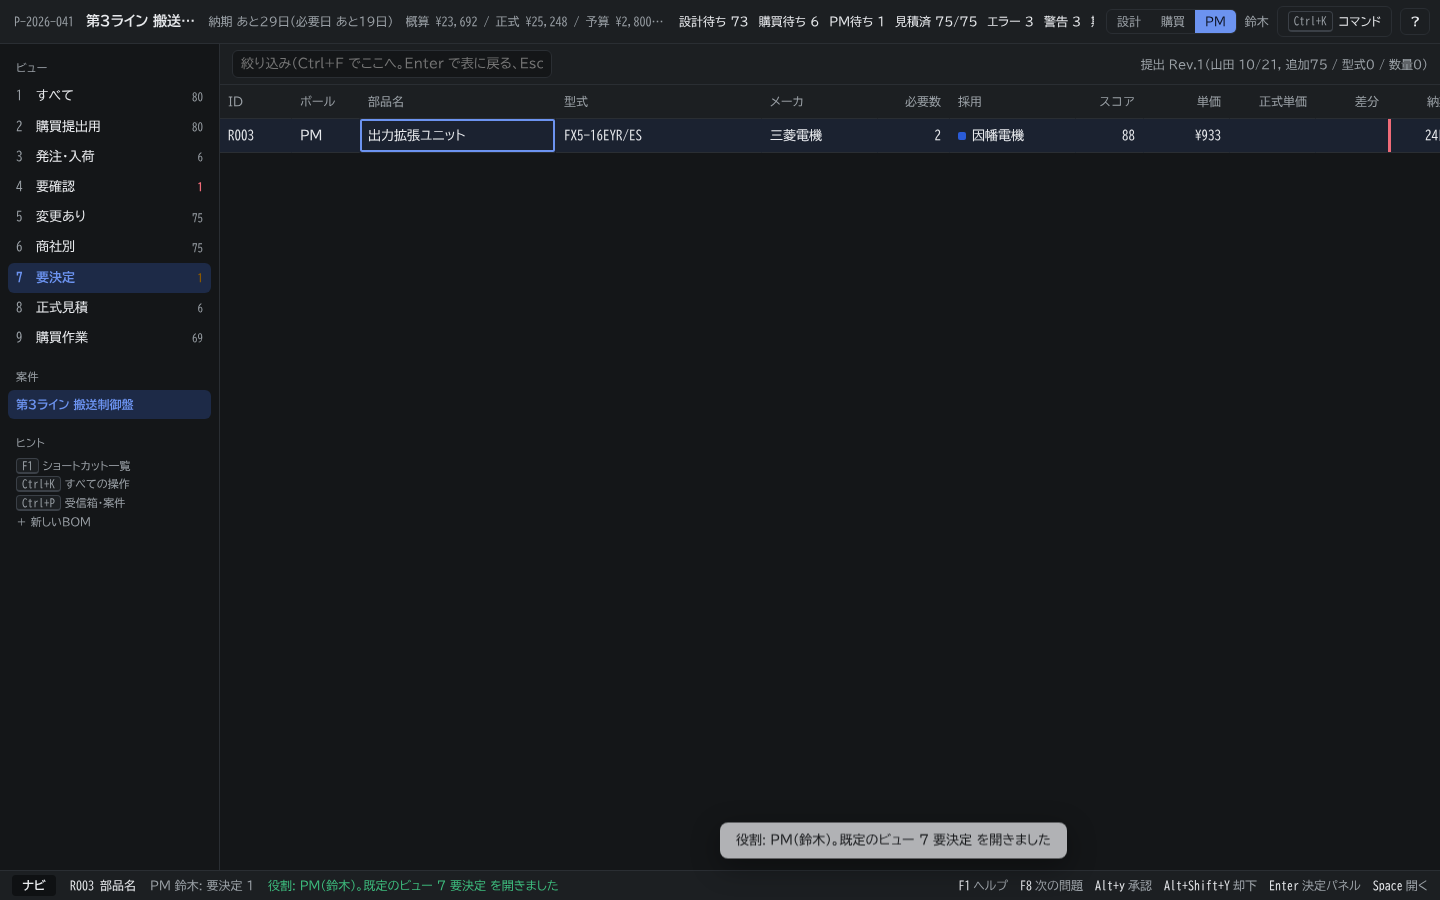
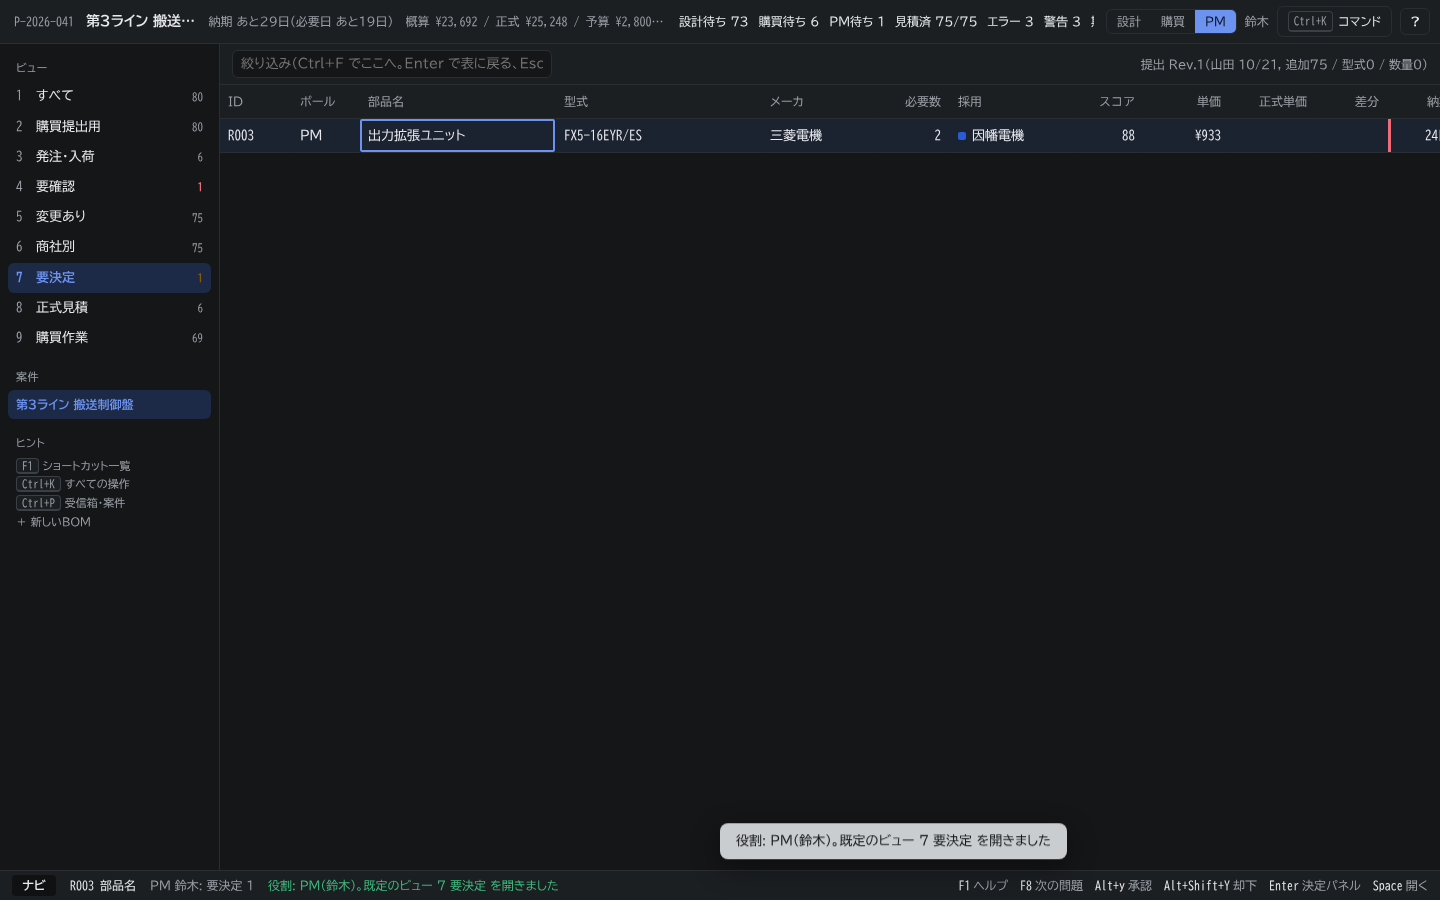
Round 11 newbie fixes: dialog digits until Tab, select candidate commit, Ctrl+Z cancels typed entry, wizard header/total variants
- In dialogs with a text field, digits re-pick options until Tab or typing moves to the text (digit-led text after Tab)
- Enter-started select edits: the ↑↓-highlighted candidate becomes the value
- Ctrl+Z in a typed entry cancels the whole entry (no stray first character)
- Old-version header markers after separators (型式 旧, 型式_旧, 型式【旧】, 型式（旧品）); duplicate columns prefer 新/変更後/new; repeated page headers matched by field set
- More totals (総数量, 員数合計, 数量計, 合計 6 個 ¥12,000, 以下余白です); rows with all used columns empty are skipped and reported
- Rough unit price far from other suppliers is warned; sequence mode stops after one loop

Claude-Session: https://claude.ai/code/session_01VLU869jRMj6qD9nzBFt6MK

Changed region(s): [[0.5, 0.9022, 0.75, 0.9644]]

diff --git a/src/io/paste.ts b/src/io/paste.ts
@@ -87,7 +87,9 @@ export function detectField(h: string): BomField | null {
   const head = s.replace(/[（(][^）)]*[）)]/g, '').trim()
   if (/^(旧|変更前|前回|改訂前|廃止|old\b|prev(ious)?\b)/i.test(head)) return null
   // 括弧の注記が「旧」「変更前」「old」だけのもの（型式（旧）・型式(old)・型式（変更前））も前の版の列
-  if (/[（(]\s*(旧|旧版|変更前|前回|改訂前|廃止|old|prev(ious)?|before)\s*[）)]/i.test(s)) return null
+  if (/[（(]\s*(旧|旧版|旧品|変更前|前回|改訂前|廃止|old|prev(ious)?|before)\s*[）)]/i.test(s)) return null
+  // 区切り（空白・_・【】・[]）の後ろの「旧」（型式 旧・型式_旧・型式【旧】・型式[旧]）
+  if (/(^|[\s_\-【\[［／/])(旧|旧品|旧版|変更前|old|before)([\s_\-】\]］]|$)/i.test(s)) return null
   // 「Manufacturer Part Number」「メーカ型番」のように、部品番号を表す語を含む見出しは型式
   if (/part\s*(no|number|#)|p\/n|\bmpn\b|型番|品番|形番|型式|形式/i.test(s)) return 'model'
   for (const [f, re] of Object.entries(HEADER_SYNONYMS) as Array<[BomField, RegExp]>) if (re.test(s)) return f
@@ -112,7 +114,9 @@ export function parseBomPaste(text: string): PasteResult {
   const best = Math.max(0, ...counts)
   // 同じ数なら下の行（表題欄の下に本当の見出しがあるのが普通）。ただしページごとに同じ見出しを繰り返した表は最初の見出し
   const tops = counts.map((n, i) => (n === best ? i : -1)).filter((i) => i >= 0)
-  const same = tops.length > 1 && tops.every((i) => lines[i].join('\t').trim() === lines[tops[0]].join('\t').trim())
+  // 繰り返しかどうかは見出しの言葉の組み合わせで見る（2 ページ目の「品名（続き）」・空の No でも同じ見出し）
+  const fieldsOf = (l: string[]) => [...new Set(l.map(detectField).filter(Boolean))].sort().join(',')
+  const same = tops.length > 1 && tops.every((i) => fieldsOf(lines[i]) === fieldsOf(lines[tops[0]]))
   const headerAt = best >= 2 ? (same ? tops[0] : tops[tops.length - 1]) : -1
   // 1 列だけの貼り付けは、1 行目が「部品名」などの見出しそのものなら見出し
   const singleHeader = headerAt < 0 && lines[0].length === 1 && !!detectField(lines[0][0]) && lines[0][0].trim().length <= 8
@@ -122,9 +126,9 @@ export function parseBomPaste(text: string): PasteResult {
   }
   if (headerAt >= 0) {
     // ページごとに繰り返した同じ見出しの行は外す（部品にしない）
-    const h = lines[0].join('\t').trim()
+    const h = fieldsOf(lines[0])
     const before = lines.length
-    lines = [lines[0], ...lines.slice(1).filter((l) => l.join('\t').trim() !== h)]
+    lines = [lines[0], ...lines.slice(1).filter((l) => !(new Set(l.map(detectField).filter(Boolean)).size >= 2 && fieldsOf(l) === h))]
     if (lines.length < before) warnings.push(`繰り返しの見出し ${before - lines.length} 行は取り込みません`)
   } else if (headerAt < 0 && !singleHeader) {
     // 見出しが無い表で、先頭の 1 セルだけの行（表題）は飛ばす
@@ -170,13 +174,24 @@ export function parseBomPaste(text: string): PasteResult {
   const isTotal = (l: string[]) => (l.some(isTotalCell) && !looksPart(l)) || isSectionLine(l, Math.max(l.length, mapping.length))
   const totals = lines.slice(hasHeader ? 1 : 0).filter(isTotal).length
   if (totals) warnings.push(`小計・合計・区切りの ${totals} 行は取り込みません`)
-  const body = (hasHeader ? lines.slice(1) : lines).filter((l) => !isTotal(l))
+  // 使う列がすべて空の行（使わない列にだけあるページ番号・表題など）は部品にしない
+  const mappedEmpty = (l: string[]) => mapping.every((f, j) => !f || (l[j] ?? '').trim() === '')
+  const blanks = lines.slice(hasHeader ? 1 : 0).filter((l) => !isTotal(l) && mappedEmpty(l)).length
+  if (blanks) warnings.push(`部品の列がすべて空の ${blanks} 行（ページ番号・表題など）は取り込みません`)
+  const body = (hasHeader ? lines.slice(1) : lines).filter((l) => !isTotal(l) && !mappedEmpty(l))
   // 見出しが「Item」「No」でも中身が番号だけの列は部品名にしない（行番号の列）
   mapping = mapping.map((f, j) => (f === 'name' && body.length > 0 && body.every((l) => /^\s*\d+\s*$/.test(l[j] ?? '')) ? null : f))
   // 同じ項目に当たる列が 2 つあれば、左の列を使う（番号だけの列を外したあとで判定する）
+  // 見出しに「新」「変更後」「new」とある列があればそれを（現型式／新型式）、無ければ左の列を使う
   const used = mapping.filter(Boolean)
   const dup = used.find((f, i) => used.indexOf(f) !== i)
-  if (dup) warnings.push(`「${FIELD_LABEL[dup]}」に当たる列が 2 つあります。左の列を使います`)
+  if (dup) {
+    const cols = mapping.map((f, j) => (f === dup ? j : -1)).filter((j) => j >= 0)
+    const newer = hasHeader ? cols.find((j) => /新|変更後|改訂後|\bnew\b|\bafter\b/i.test(first[j] ?? '')) : undefined
+    const keep = newer ?? cols[0]
+    mapping = mapping.map((f, j) => (f === dup && j !== keep ? null : f))
+    warnings.push(`「${FIELD_LABEL[dup]}」に当たる列が ${cols.length} つあります。「${(hasHeader ? first[keep] : '') || '左の列'}」の列を使います`)
+  }
   let badQty = 0
   let badUnit = 0
   const rows = body.map((line, i) => {
@@ -320,9 +335,9 @@ export function isTotalCell(c: string): boolean {
   const t = c.replace(/[\s　【】［］\[\]<>＜＞〈〉《》＊*※\-－ー—―=＝~～・_＿]/g, '')
   // 飾りだけのセル（「＝＝＝＝」「----」）は区切り
   if (!t && c.trim().length >= 3) return true
-  if (/^(以下余白|以下空白|以上)$/.test(t)) return true
+  if (/^(以下余白|以下空白|以上)(です|でございます)?$/.test(t)) return true
   // 「計：6個」「合計 6点」「合計数量 6」「合計金額 ¥12,000」「部品点数 3」のように、同じセルに数・単位が続くものも
-  return /^(小計|合計|総計|総合計|総数|計|部品点数|点数|total|subtotal|grandtotal)(金額|額|数|数量|点数|amount|qty)?[:：]?([¥￥$]?[\d,.]+(個|点|台|本|枚|式|円|pcs)?)?([（(][^）)]*[）)])?$/i.test(t)
+  return /^(員数|数量|部品|金額)?(小計|合計|総計|総合計|総数量|総数|計|部品点数|点数|total|subtotal|grandtotal)(金額|額|数|数量|点数|amount|qty)?[:：]?([¥￥$]?[\d,.]+(個|点|台|本|枚|式|円|pcs)?)*([（(][^）)]*[）)])?$/i.test(t)
 }
 /**
  * 区切り・分類の見出しの行（「■ 制御部」「【電源】」「<端子部>」「1. 制御部」だけが入った行）。部品ではない。

diff --git a/src/commands/keyboard.ts b/src/commands/keyboard.ts
@@ -197,17 +197,18 @@ function handlePanelKey(key: string, e: KeyboardEvent): boolean {
         }
       }
       // 文字欄が無い、または理由の選択で文字欄が空のときは数字キーで選ぶ
-      // 選んだあと（数字・↑↓）に打つ数字は文字（「3日で入る」「2026-012」の先頭の数字で選び直さない）
-      const digitPick = panel.options && /^[1-9]$/.test(key) && (!panel.showText || (panel.digitsSelect && !panel.text && !panel.picked))
+      // 数字は、文字欄に移る（Tab）か文字を打つまでは選択肢を選ぶ（打ち間違えたら数字で選び直せる）。
+      // 数字で始まる理由・番号（3日で入る・2026-012）は Tab で欄へ移ってから
+      const digitPick = panel.options && /^[1-9]$/.test(key) && (!panel.showText || (panel.digitsSelect && !panel.text && !panel.textTouched))
       if (digitPick) {
         if (Number(key) > n) return (toast(`1〜${n} で選んでください`, 'info'), true)
         // 文字欄もあるダイアログ（理由・氏名を入れる）では、数字は選ぶだけ。確定は Enter（続けて打った文字が背後の表に入らない）
-        if (panel.showText) return (set({ panel: { ...panel, index: Number(key) - 1, picked: true } }), toast(`「${panel.options![Number(key) - 1]}」を選びました。${panel.requireText ? '理由を入れて' : '必要なら入れて'} Enter で確定`, 'info'), true)
+        if (panel.showText) return (set({ panel: { ...panel, index: Number(key) - 1 } }), toast(`「${panel.options![Number(key) - 1]}」を選びました（選び直しは数字か ↑↓）。${panel.requireText ? '理由' : '補足'}は打てば欄に入ります（数字で始まるときは Tab で欄へ）。Enter で確定`, 'info'), true)
         submit(panel.options![Number(key) - 1])
         return true
       }
-      if (key === 'ArrowDown' && panel.options) return (set({ panel: { ...panel, index: up(panel.index + 1, n), picked: true } }), true)
-      if (key === 'ArrowUp' && panel.options) return (set({ panel: { ...panel, index: up(panel.index - 1, n), picked: true } }), true)
+      if (key === 'ArrowDown' && panel.options) return (set({ panel: { ...panel, index: up(panel.index + 1, n) } }), true)
+      if (key === 'ArrowUp' && panel.options) return (set({ panel: { ...panel, index: up(panel.index - 1, n) } }), true)
       if (key === 'Enter') {
         submit(panel.options ? (panel.options[panel.index] ?? null) : null)
         return true
@@ -448,10 +449,22 @@ function altBinding(key: string) {
 }
 
 /** 順番に直すモード: 次の問題へ進んで候補を開く。無ければ終わる */
+/** 順番に直すモードで回った問題（一周したら黙って二周目に入らずに終わる） */
+const seqSeen = new Set<string>()
 function sequenceNext() {
-  if (!st().sequence) return
-  if (problemCells().length && gotoProblem(1) && visibleCursorRow()) openQuickfix()
-  else {
+  if (!st().sequence) return seqSeen.clear()
+  const here = `${st().cursorRow}|${st().cursorCol}`
+  seqSeen.add(here)
+  if (problemCells().length && gotoProblem(1) && visibleCursorRow()) {
+    const next = `${st().cursorRow}|${st().cursorCol}`
+    if (seqSeen.has(next)) {
+      set({ sequence: false })
+      seqSeen.clear()
+      return toast(`順番に直すモード: 一周しました（残りの問題 ${problemCells().length} 件はそのまま。F8 で回れます）`, 'ok')
+    }
+    openQuickfix()
+  } else {
+    seqSeen.clear()
     set({ sequence: false })
     toast('順番に直すモード: 残りの問題はありません', 'ok')
   }
@@ -536,6 +549,8 @@ export function handleKeyDown(e: KeyboardEvent) {
       return
     }
     if (key === 'Tab' || key === 'Shift+Tab') {
+      // 文字欄へ移ったら、以後の数字は文字（数字で始まる理由を打てる）
+      if (s.panel.kind === 'prompt' && s.panel.showText && !s.panel.textTouched) set({ panel: { ...s.panel, textTouched: true } })
       // フォーカスはダイアログの中で回す（外に出て背後の表・絞り込み欄に打鍵が入らないように）
       e.preventDefault()
       const dlg = document.querySelector<HTMLElement>('.overlay .dialog')
@@ -597,7 +612,8 @@ export function handleKeyDown(e: KeyboardEvent) {
         if (c && c.length > 1) {
           e.preventDefault()
           const rot = key === 'ArrowDown' ? [...c.slice(1), c[0]] : [c[c.length - 1], ...c.slice(0, -1)]
-          set({ editCandidates: rot })
+          // 選んだ候補を入力欄の値にする（Enter でその候補が入る）
+          set({ editCandidates: rot, editValue: rot[0] })
         }
         return
       }
@@ -608,6 +624,13 @@ export function handleKeyDown(e: KeyboardEvent) {
         if (commitEdit('stay')) runCommand(key === 'ArrowLeft' ? 'move.left' : 'move.right')
         return
       }
+    }
+    // 打って始めた入力の Ctrl+Z は、入力ごと取り消す（最初の 1 文字がブラウザの取り消しで消えずに残らない。Excel と同じ）
+    if (key === 'Ctrl+Z' && s.editTyped) {
+      e.preventDefault()
+      cancelEdit()
+      toast('入力を取り消しました（セルは元のまま）', 'info')
+      return
     }
     // 入力欄にフォーカスが移る前に打たれた文字は取りこぼさない
     if (printable(e) && !(target instanceof HTMLInputElement && target.classList.contains('cell'))) {

diff --git a/src/ui/Panels.tsx b/src/ui/Panels.tsx
@@ -301,7 +301,7 @@ function PanelBody({ panel }: { panel: Panel }) {
                 ))}
               </div>
             )}
-            {panel.showText && <AutoInput value={panel.text} onChange={(v) => st.set({ panel: { ...panel, text: v } })} placeholder={panel.placeholder ?? (panel.requireText ? '理由・本文（必須。Enter で確定）' : '補足（任意。Enter で確定）')} testid="prompt-text" />}
+            {panel.showText && <AutoInput value={panel.text} onChange={(v) => st.set({ panel: { ...(useStore.getState().panel as typeof panel), text: v, textTouched: true } })} placeholder={panel.placeholder ?? (panel.requireText ? '理由・本文（必須。Enter で確定）' : '補足（任意。Enter で確定）')} testid="prompt-text" />}
             {panel.extra && (
               <div className="wizard">
                 {Object.entries(panel.extra).map(([k, v]) => (
@@ -313,7 +313,7 @@ function PanelBody({ panel }: { panel: Panel }) {
               </div>
             )}
           </div>
-          <Foot items={panel.showText && panel.options ? [...(panel.digitsSelect ? ([['1', '〜 数字で選ぶ']] as Array<[string, string]>) : []), ['ArrowUp', '/ ↓ 選択'], ['Enter', '確定'], ['Escape', '取り消し']] : panel.options ? [['1', '〜 数字で選ぶ'], ['Enter', '選択中を確定'], ['Escape', '取り消し']] : [['Enter', '確定'], ['Escape', '取り消し']]} />
+          <Foot items={panel.showText && panel.options ? [...(panel.digitsSelect ? ([['1', '〜 数字で選ぶ']] as Array<[string, string]>) : []), ['ArrowUp', '/ ↓ 選択'], ...(panel.digitsSelect ? ([['Tab', '文字の欄へ（数字で始まるとき）']] as Array<[string, string]>) : []), ['Enter', '確定'], ['Escape', '取り消し']] : panel.options ? [['1', '〜 数字で選ぶ'], ['Enter', '選択中を確定'], ['Escape', '取り消し']] : [['Enter', '確定'], ['Escape', '取り消し']]} />
         </div>
       )
     case 'quickfix':

diff --git a/src/model/store.ts b/src/model/store.ts
@@ -20,7 +20,7 @@ export type Panel =
   | { kind: 'columns'; index: number }
   | { kind: 'issue'; rowId: string; field: string; step: 'kind' | 'text' | 'proposal'; issueKind?: string; index: number; text: string; proposal: { model: string; maker: string; supplierId: string; unitPrice: string; leadDays: string } }
   | { kind: 'adopt'; rowId: string; index: number; reasonFor?: string }
-  | { kind: 'prompt'; title: string; options?: string[]; index: number; text: string; placeholder?: string; requireText?: boolean; showText?: boolean; digitsSelect?: boolean; /** 文字欄のあるダイアログで、選択肢を選んだあと（以後の数字は文字として欄に入る） */ picked?: boolean; onSubmit: (choice: string | null, text: string, extra?: Record<string, string>) => string | void; extra?: Record<string, string>; danger?: boolean; error?: string }
+  | { kind: 'prompt'; title: string; options?: string[]; index: number; text: string; placeholder?: string; requireText?: boolean; showText?: boolean; digitsSelect?: boolean; /** 文字欄に移った・文字を打った（以後の数字は文字として欄に入る。それまでは数字で選び直せる） */ textTouched?: boolean; onSubmit: (choice: string | null, text: string, extra?: Record<string, string>) => string | void; extra?: Record<string, string>; danger?: boolean; error?: string }
   | { kind: 'wizard'; step: number; data: Record<string, string>; sel: number; picks: string[]; error?: string }
   | { kind: 'inbox'; index: number; query: string }
   | { kind: 'settings'; index: number; draft: Record<string, string>; editing: boolean; value: string; error?: string; discardArmed?: boolean }

diff --git a/src/actions/rows.ts b/src/actions/rows.ts
@@ -120,6 +120,12 @@ export function setCell(rowId: string, colKey: string, raw: string, label = 'セ
     const r = p.rows.find((x) => x.id === rowId)
     const sid = supplierOfCol(colKey)
     const q = r && sid ? p.quotes.find((x) => x.rowId === r.id && x.supplierId === (sid === 'A' ? r.adoptedSupplierId : sid) && !x.stale) : undefined
+    // 概算単価が他社の単価とけた違い（1/5 未満・5 倍超）なら知らせる（数字キーのビュー切替のつもりで「4」が入った など）
+    if (r && q && colKey.startsWith('q.unitPrice') && q.unitPrice != null) {
+      const others = p.quotes.filter((x) => x.rowId === r.id && !x.stale && x.supplierId !== q.supplierId && x.unitPrice != null).map((x) => x.unitPrice as number).sort((a, b) => a - b)
+      const med = others.length ? others[Math.floor(others.length / 2)] : null
+      if (med && (q.unitPrice < med / 5 || q.unitPrice > med * 5)) st().toastMsg(`${r.id} の単価 ¥${q.unitPrice.toLocaleString()} は他社（¥${med.toLocaleString()} 前後）とけた違いです。桁・列を確かめてください（Ctrl+Z で戻す）`, 'err')
+    }
     if (q && colKey.startsWith('q.validUntil') && q.validUntil && q.validUntil < todayStr()) st().toastMsg(`有効期限 ${q.validUntil} はもう過ぎています（期限切れの見積として扱います）`, 'err')
     if (r && q && colKey.startsWith('q.formalPrice') && q.formalPrice != null) {
       const early = !['formalRequested', 'formalQuoted', 'ordered', 'received'].includes(r.status)

diff --git a/src/io/paste.test.ts b/src/io/paste.test.ts
@@ -153,3 +153,20 @@ describe('隠した列（ほかに同じ項目の列が無い）', () => {
     expect(parseBomPaste(tsv).rows[0].qtyNeeded).toBe(4)
   })
 })
+
+describe('ラウンド 11 の取り込み', () => {
+  it('型式 旧・型式_旧・型式【旧】・型式[旧]・現型式／新型式・型式（旧品）では新しい列', () => {
+    for (const [a, b] of [['型式 旧', '型式 新'], ['型式_旧', '型式_新'], ['型式【旧】', '型式【新】'], ['型式[旧]', '型式[新]'], ['現型式', '新型式'], ['型式（旧品）', '型式（新品）']]) {
+      const r = parseBomPaste(`部品名\t${a}\t${b}\t数量\nリレー\tMY2N\tMY4N-D2\t4`)
+      expect([a, r.rows[0].model]).toEqual([a, 'MY4N-D2'])
+    }
+  })
+  it('2 ページ目の見出しが少し違っても前のページを捨てない', () => {
+    const r = parseBomPaste('No\t品名\t型式\t数量\n1\tリレー\tMY4N\t2\n\t品名（続き）\t型式\t数量\n2\tタイマ\tH3CR\t1')
+    expect(r.rows.map((x) => x.model)).toEqual(['MY4N', 'H3CR'])
+  })
+  it('総数量・員数合計・数量計・合計 6 個 ¥12,000・以下余白です、使う列が空の行を飛ばす', () => {
+    const r = parseBomPaste('部品名\t型式\t数量\t\nリレー\tMY4N\t2\t\n総数量\t\t6\t\n員数合計\t\t6\t\n数量計\t\t6\t\n合計 6 個 ¥12,000\t\t\t\n以下余白です\t\t\t\n\t\t\tページ 1/2')
+    expect(r.rows.map((x) => x.model)).toEqual(['MY4N'])
+  })
+})
